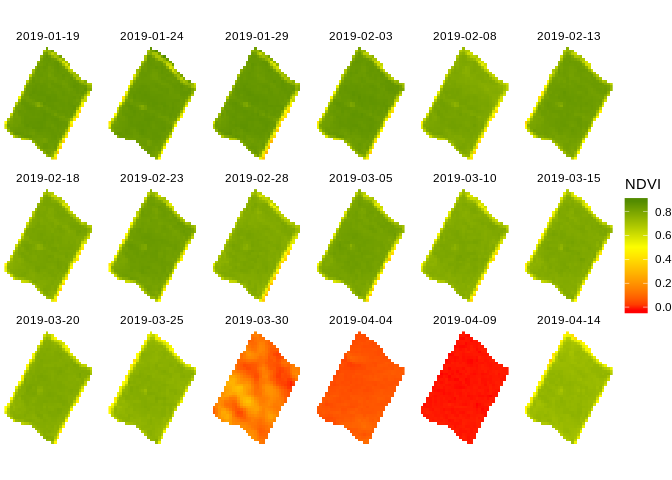
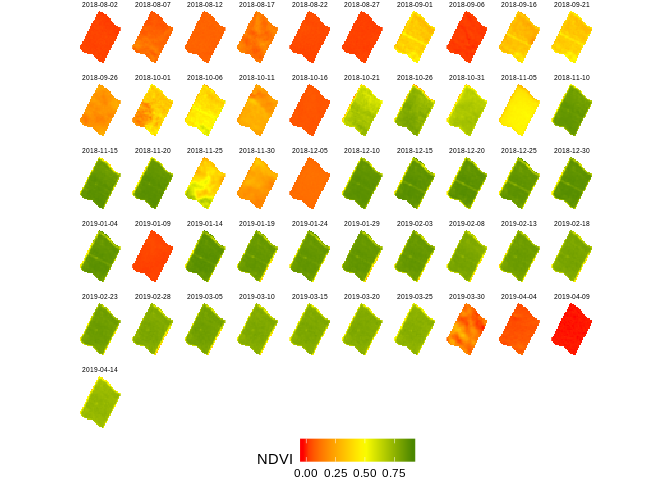
updating data

diff --git a/README.md b/README.md
@@ -61,8 +61,8 @@ library(ggplot2)
 list <- list.files('data/spatial/VIs/NDVI/',full.names=TRUE)
 ind <- sort(as.numeric(regmatches(list,regexpr("[0-9]{8}",list))),index.return=TRUE)
 new_list <- list[ind$ix]
-dates <- ymd(ind$x[(length(new_list)-17):length(new_list)])
-ndvi <- read_stars(new_list[(length(new_list)-17):length(new_list)],along='time')
+dates <- ymd(ind$x)
+ndvi <- read_stars(new_list,along='time')
 ndvi <- st_set_dimensions(ndvi,'time',values= dates)
 names(ndvi) <- 'NDVI'
 pol <- st_read('data/spatial/vectorial/cuarteles_kiwis.gpkg')
@@ -77,12 +77,30 @@ pol <- st_transform(pol,"+proj=utm +zone=19 +south +datum=WGS84 +units=m +no_def
 
 ggplot() + geom_stars(data=ndvi[pol]*10e-5) +
   coord_equal() +
-  facet_wrap(~time,nrow=3) +
+  facet_wrap(~time,ncol=10) +
   theme_void() +
-  scale_fill_gradient2(low="red", mid="yellow",high="darkgreen",midpoint=0.5,na.value="transparent")
+  scale_fill_gradient2(low="red", mid="yellow",high="darkgreen",midpoint=0.5,na.value="transparent") +
+  theme(strip.text = element_text(size=5),
+        legend.position = 'bottom')
 ```
 
 ![](README-unnamed-chunk-2-1.png)<!-- -->
+
+Serie de tiempo de valores de NDVI promedio en el
+cuartel
+
+``` r
+data <- data.frame(dates=as.POSIXct(dates),NDVI=st_apply(ndvi[pol],3,FUN='mean',na.rm=TRUE)$NDVI)
+
+ggplot(data,aes(dates,NDVI*10e-5)) + 
+  geom_point() + geom_smooth(span=0.2)+
+  scale_x_datetime(date_breaks='1 month',date_label ='%d-%m')+
+  labs(y='NDVI')+
+  theme_minimal()
+#> `geom_smooth()` using method = 'loess' and formula 'y ~ x'
+```
+
+![](README-unnamed-chunk-3-1.png)<!-- -->
 
 Ranghetti, L. and Busetto, L. (2019). *sen2r: an R toolbox to find,
 download and preprocess Sentinel-2 data*. R package version 1.0.0. DOI:
